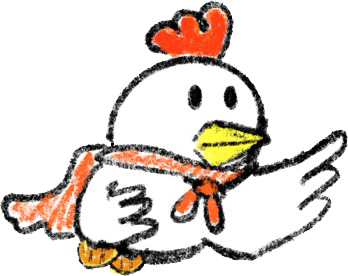
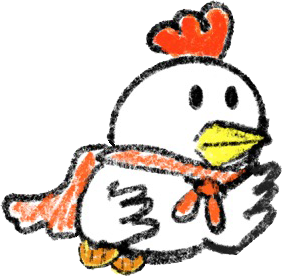
💄 Update chiken img, size

diff --git a/css/style.css b/css/style.css
@@ -32,11 +32,11 @@ body{
 
 .chiken{
     width: 50px;
-    height: 40px;
+    height: 50px;
     position: absolute;
     background-image: url(../img/chiken.png);
     background-repeat: no-repeat;
-    background-size: contain;
+    background-size: cover;
     border: 1px solid black;
     bottom : 250px;
     left: 100px;
